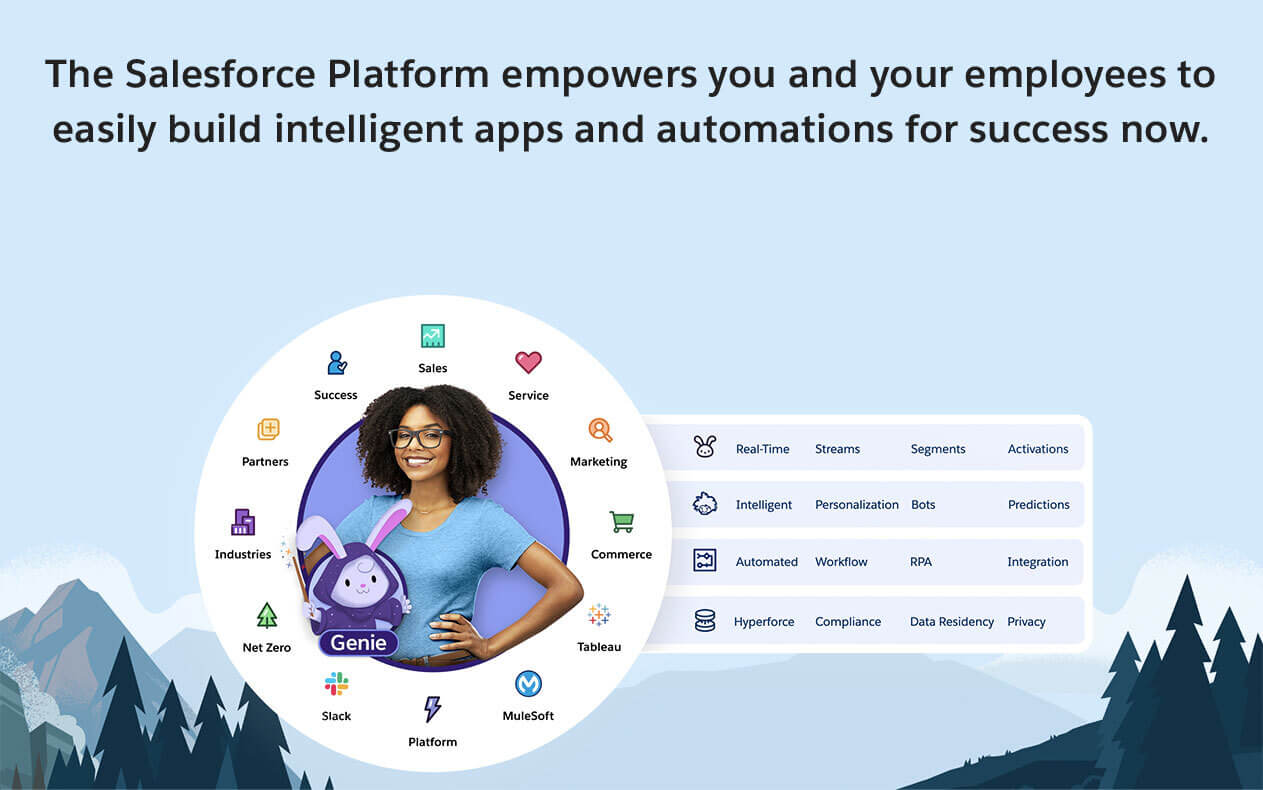
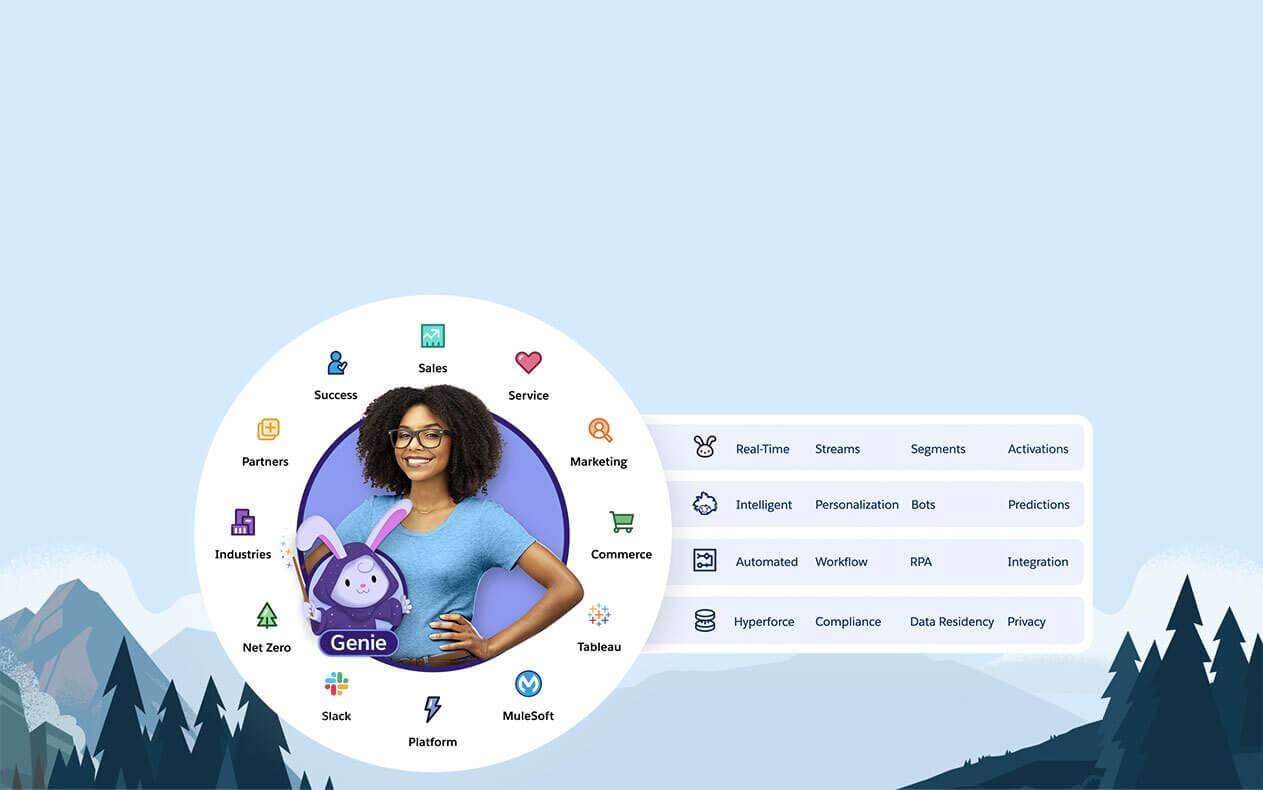
Desktop updates;

diff --git a/src/partials/chapter-data/desktop.html b/src/partials/chapter-data/desktop.html
@@ -56,7 +56,11 @@
           <wz-step>
             <div class="step step-4b">
               <div class="flyout active">
-                <span>But it doesn't stop there. You can get a 360&deg; view of your customer using different data sources that are consolidated into a single, unified profile with Salesforce Genie.<br /><br />Genie is a real-time, hyperscale data platform built natively into the Salesforce Platform. We'll take a deeper dive into Genie later on in the tour!</span>
+                <span>
+                  But it doesn't stop there. You can get a 360&deg; view of your customer using different data sources that are consolidated into a single, unified profile with Salesforce Genie.
+                  <br><br>
+                  Genie is a hyperscale customer data cloud built natively into the Salesforce Platform. Genie adds real-time data streams to the Customer 360, so that you can capture and ingest data from anywhere and at high scale.
+                </span>
                 <a ng-click="GoToStep5()">continue</a>
                 <span class="carat"><i></i></span>
               </div>
@@ -70,7 +74,20 @@
           <wz-step>
             <div class="step step-5a">
               <div class="flyout active">
-                <span>Now, you can boost operational efficiency and accelerate time to value by empowering your teams to deliver connected, personalized experiences with low code.</span>
+                <span>Salesforce Genie makes it easy for us to map the incoming data from other systems into this shared data model. </span>
+                <a ng-click="GoToStep5B()">continue</a>
+                <span class="carat"><i></i></span>
+              </div>
+            </div>
+          </wz-step>
+          <wz-step>
+            <div class="step step-5b">
+              <div class="flyout active">
+                <span>
+                  Genie then harmonizes all of this data into a unified customer graph, giving you a single, centralized view of your customer.
+                  <br><br>
+                  Now, you can connect all of your data to Salesforce, and enable your teams to be more productive, more efficient, and deliver magical customer experiences with low code.
+                </span>
                 <a ng-click="GoToSuccess()">continue</a>
                 <span class="carat"><i></i></span>
               </div>

diff --git a/src/partials/chapter-flow/desktop.html b/src/partials/chapter-flow/desktop.html
@@ -39,7 +39,42 @@
           </wz-step>
           <wz-step>
             <div class="step step-4">
-              <div class="click-box active" ng-click="goToSuccess()"></div>
+              <div class="click-box active" ng-click="goToStep5()"></div>
+            </div>
+          </wz-step>
+          <wz-step>
+            <div class="step step-5">
+              <div class="flyout active">
+                <span>
+                  Your financing process flow is now live!
+                  <br><br>
+                  While we created this flow without using any code, the Salesforce Platform also enables your team to build flows with code, like the one seen here. Seamlessly extend and enrich your automations through a number of programming languages based on your needs.
+                </span>
+                <a ng-click="goToStep6()">continue</a>
+                <span class="carat"><i></i></span>
+              </div>
+            </div>
+          </wz-step>
+          <wz-step>
+            <div class="step step-6">
+              <div class="flyout active">
+                <span>
+                  Even better, developers can stay in the browser experience with Code Builder, allowing you to deliver trusted end-to-end experiences and drive productivity.
+                </span>
+                <a ng-click="goToStep7()">continue</a>
+                <span class="carat"><i></i></span>
+              </div>
+            </div>
+          </wz-step>
+          <wz-step>
+            <div class="step step-7">
+              <div class="flyout active">
+                <span>
+                  And with Genie, workflows like this one become dynamic – they change just as your data does. Genie helps boost automation, by connecting real-time data to real-time workflows with Salesforce Flow.
+                </span>
+                <a ng-click="goToSuccess()">continue</a>
+                <span class="carat"><i></i></span>
+              </div>
             </div>
           </wz-step>
           <wz-step success="true">

diff --git a/src/partials/outro/desktop.html b/src/partials/outro/desktop.html
@@ -4,8 +4,9 @@
       <wizard name="monitor">
         <wz-step>
           <div class="step recap-0">
+            <h3>The Salesforce Platform empowers you and your employees to easily build intelligent apps and automations for success now.</h3>
             <div class="recap-buttons">
-              <a href="https://www.salesforce.com/form/app-cloud/roi-calc.jsp" class="btn" target="_blank" rel="noopener noreferrer">Calculate your platform ROI<i></i></a>
+              <a href="https://www.salesforce.com/form/conf/platform/low-code-application-development-playbook" class="btn" target="_blank" rel="noopener noreferrer">Get the Low-Code Playbook<i></i></a>
               <a href="https://www.salesforce.com/products/platform/overview/" class="text" target="_blank" rel="noopener noreferrer">Learn More<i></i></a>
             </div>
           </div>
@@ -13,7 +14,7 @@
         <wz-step>
           <div class="step recap-1">
             <div class="recap-buttons">
-              <a href="https://www.salesforce.com/form/app-cloud/roi-calc.jsp" class="btn" target="_blank" rel="noopener noreferrer">Calculate your platform ROI<i></i></a>
+              <a href="https://www.salesforce.com/form/conf/platform/low-code-application-development-playbook" class="btn" target="_blank" rel="noopener noreferrer">Get the Low-Code Playbook<i></i></a>
             </div>
           </div>
         </wz-step>

diff --git a/src/partials/chapter-flow/drawer.html b/src/partials/chapter-flow/drawer.html
@@ -1,8 +1,8 @@
 <div class="drawer-content chapter-flow-drawer" ng-controller="ChapterFlowDrawerController">
   <div class="col-lg-12 drawer-intro" ng-show="drawer.mode == 'intro'">
     <h2>Automate the buying process with Flow.</h2>
-    <p>Now that your vehicle order data is in, you'll need to create business logic to automate actions, such as financing and generating automatic price quotes. Streamlining complex tasks like these will help you save money and allow your employees to spend more time with customers.</p>
-    <p>Without using any code, we created an example flow to automate the financing process.</p>
+    <p>Now that your vehicle order data is in, you'll need to create business logic to automate actions, such as financing and generating automatic price quotes. Streamlining complex tasks like these will help you save money and allow your employees to spend more time with your customers.</p>
+    <p>Using low code, we created an example flow to automate the financing process.</p>
     <p class="continue">
       <a class="btn btn-continue" ng-click="beginStory()">Continue</a>
     </p>

diff --git a/src/partials/outro/mobile.html b/src/partials/outro/mobile.html
@@ -25,7 +25,7 @@
             <div class="step slide-1">
                 <div class="slide-image"></div>
               <div class="recap-buttons">
-                <a href="https://www.salesforce.com/form/conf/app-cloud/roi-calc/?leadcreated=true&redirect=true&chapter=&DriverCampaignId=70130000000sUVq&player=&FormCampaignId=7010M000000mk9Y&videoId=&playlistId=&mcloudHandlingInstructions=&landing_page=" class="btn" target="_blank" rel="noopener noreferrer">Calculate your platform ROI<i></i></a>
+                <a href="https://www.salesforce.com/form/conf/platform/low-code-application-development-playbook" class="btn" target="_blank" rel="noopener noreferrer">Get the Low-Code Playbook<i></i></a>
               </div>
             </div>
           </wz-step>

diff --git a/src/controllers/chapter-flow/desktop.controller.js b/src/controllers/chapter-flow/desktop.controller.js
@@ -36,6 +36,21 @@ export default function ChapterFlowController($scope, Steps, Hotspots, WizardHan
     Steps.activate("four");
   };
 
+  $scope.goToStep5 = function() {
+    WizardHandler.wizard("monitor").next();
+    Steps.activate("");
+  };
+
+  $scope.goToStep6 = function() {
+    WizardHandler.wizard("monitor").next();
+    Steps.activate("");
+  };
+
+  $scope.goToStep7 = function() {
+    WizardHandler.wizard("monitor").next();
+    Steps.activate("");
+  };
+
   $scope.goToSuccess = function() {
     Steps.clear();
     WizardHandler.wizard("monitor").next();

diff --git a/src/styles/_chapter-data.scss b/src/styles/_chapter-data.scss
@@ -28,6 +28,9 @@
   .step-5a {
     background: url('../assets/images/chapters/chapter-data/screen-bkg-5a.png') center top no-repeat;
   }
+  .step-5b {
+    background: url('../assets/images/chapters/chapter-data/screen-bkg-5b.png') center top no-repeat;
+  }
   .step {
     background-size: contain;
   }
@@ -70,10 +73,10 @@
 
   .step-5 {
     .click-box {
-      top: 374px;
-      left: 486px;
-      width: 72px;
-      height: 22px;
+      top: 134px;
+      left: 63px;
+      width: 176px;
+      height: 70px;
     }
   }
   &.mobile {

diff --git a/src/styles/_chapter-flow.scss b/src/styles/_chapter-flow.scss
@@ -14,6 +14,15 @@
   .step-4 {
     background: url('../assets/images/chapters/chapter-flow/screen-bkg-4.png') center top no-repeat;
   }
+  .step-5 {
+    background: url('../assets/images/chapters/chapter-flow/screen-bkg-5.jpg') center top no-repeat;
+  }
+  .step-6 {
+    background: url('../assets/images/chapters/chapter-flow/screen-bkg-6.jpg') center top no-repeat;
+  }
+  .step-7 {
+    background: url('../assets/images/chapters/chapter-flow/screen-bkg-7.gif') center top no-repeat;
+  }
 
   .step {
     background-size: contain;

diff --git a/src/controllers/chapter-data/desktop.controller.js b/src/controllers/chapter-data/desktop.controller.js
@@ -51,6 +51,11 @@ export default function ChapterDataController($scope, Steps, Hotspots, WizardHan
     Steps.activate("");
   };
 
+  $scope.GoToStep5B = function() {
+    WizardHandler.wizard("monitor").next();
+    Steps.activate("");
+  };
+
   $scope.GoToSuccess = function() {
     WizardHandler.wizard("monitor").next();
     Steps.activate("six");

diff --git a/src/controllers/chapter-data/drawer.controller.js b/src/controllers/chapter-data/drawer.controller.js
@@ -34,7 +34,7 @@ export default function ChapterDataDrawerController($scope, WizardHandler, TopNa
 
     Steps.pop({
       number: 'five',
-      title: 'Click &ldquo;Add Sources&rdquo; to easily add data from another system.'
+      title: 'Click &ldquo;Marketing Cloud&rdquo; to add a new data source.'
     });
 
     Hotspots.clear();

diff --git a/src/styles/_outro.scss b/src/styles/_outro.scss
@@ -6,6 +6,11 @@
       center center no-repeat;
     position: relative;
     background-size: contain;
+    h3 {
+      margin: 0;
+      padding: 30px 20px 20px;
+      text-align: center;
+    }
   }
 
   .recap-1 {
